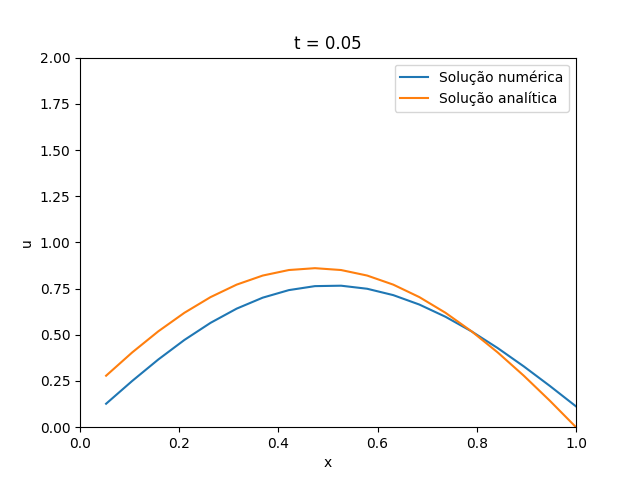
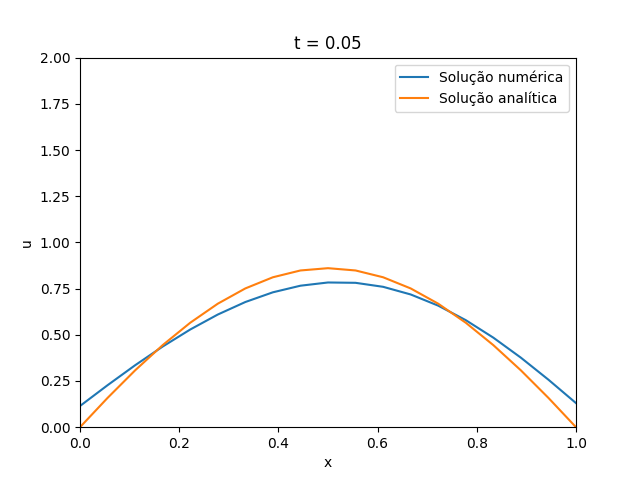
uebert

Changed region(s): [[0.125, 0.5312, 0.9062, 0.875]]

diff --git a/03/Metodos.py b/03/Metodos.py
@@ -21,7 +21,7 @@ class Metodos:
         self.pontos_t = int((t[1]-t[0])/k - 1)
 
         self.u_exp = self.explicito(x, t, h, k)
-        # self.u_crank = self.crank_nicolson()
+        self.u_crank = self.crank_nicolson(x, t, h, k)
 
         return
 
@@ -74,7 +74,11 @@ class Metodos:
 
         # A matriz da solução não contará com a borda do domínio
         m = int((x[1]-x[0])/h - 1)
-        m_linha = int((t[1]-t[0])/k - 1)
+
+        if (type(t) == list):
+            m_linha = int((t[1]-t[0])/k - 1)
+        else:
+            m_linha = int((t)/k - 1)
 
         T = np.zeros((m, m))
         for i in range(0, m - 1):
@@ -85,7 +89,6 @@ class Metodos:
         T[-1][-1] = 1 - 2*sigma
 
         U_0 = np.zeros((m, 1))
-
         for x in range(0, m):
             U_0[x][0] = np.sin(np.pi*x*self.h) + x*self.h*(1 - x*self.h)
 
@@ -94,7 +97,6 @@ class Metodos:
 
         # matriz coluna de 2
         m_2 = np.ones((m, 1))*2
-        self.imprime_matriz(m_2)
 
         for i in range(1, m_linha):
             aux = np.dot(T, U[i-1])
@@ -106,37 +108,38 @@ class Metodos:
 
         return U
 
-    def erro_explicito(self):
-        h = self.h
-        k = self.k
-        lim_t = self.lim_t
+    def calc_erro(self, x, t, h, k, U):
+        pontos_x = int((x[1]-x[0])/h - 1)
+        pontos_t = int((t[1]-t[0])/k - 1)
 
-        x = np.arange(h, 1, h)
-        t = np.arange(k, lim_t, k)
-        X, T = np.meshgrid(x, t)
+        x = np.arange(x[0], x[1], pontos_x)
+        t = np.arange(t[0], t[1], pontos_t)
 
-        erro = abs(self.u_analitica(X, T) - self.U_exp)
+        # X, T = np.meshgrid(x, t)
+        erro = abs(self.u_analitica(x, t) - U)
 
         return erro
 
-    def crank_nicolson(self):
-        h = self.h
-        k = self.k
-        lim_t = self.lim_t
-
+    def crank_nicolson(self, x, t, h, k):
         sigma = self.sigma
-
-        # A matriz da solução não contará com a borda do domínio
-        m = int(1/h - 1)
+        m = int((x[1]-x[0])/h - 1)
 
         # Condições para correção de erros ocorridos por problemas de arredondamento
         # de máquina para valores específicos de k utilizados na verificação da ordem de convergência
         if ((k == h) | (k == 0.5**2) | (k == 0.01**2)):
-            m_linha = int(lim_t/k - 2)
+            if (type(t) == list):
+                m_linha = int((t[1]-t[0])/k - 2)
+            else:
+                m_linha = int((t)/k - 2)
+
         else:
-            m_linha = int(lim_t/k - 1)
+            if (type(t) == list):
+                m_linha = int((t[1]-t[0])/k - 1)
+            else:
+                m_linha = int((t)/k - 1)
 
         T = np.zeros((m, m))
+
         for i in range(0, m - 1):
             T[i][i + 1] = -sigma/2
             T[i][i] = 1 + sigma
@@ -151,16 +154,13 @@ class Metodos:
         S[-1][-1] = 1 - sigma
 
         U_0 = np.zeros((m, 1))
-        for j in range(0, m):
-            if (j <= 1/(2*h)):
-                U_0[j][0] = 2*j*h
-            elif (j <= 1/h):
-                U_0[j][0] = 2 - 2*j*h
+        for x in range(0, m):
+            U_0[x][0] = np.sin(np.pi*x*self.h) + x*self.h*(1 - x*self.h)
 
         U = []
         U.append(U_0)
 
-        for i in range(1, m_linha + 1):
+        for i in range(1, m_linha):
             aux = np.dot(S, U[i - 1])
 
             aux2 = np.linalg.solve(T, aux)
@@ -170,18 +170,6 @@ class Metodos:
         U.shape = (U.shape[0], U.shape[1])
 
         return U
-
-    def erro_crank_nicolson(self):
-        h = self.h
-        lim_t = self.lim_t
-        k = self.k
-
-        x = np.arange(h, 1, h)
-        t = np.arange(k, lim_t, k)
-        X, T = np.meshgrid(x, t)
-        erro = abs(self.u_analitica(X, T) - self.U_crank)
-
-        return erro
 
     def plot_numerica(self, U, nome, titulo):
         x0 = self.dom_x[0]
@@ -213,18 +201,25 @@ class Metodos:
 
         plt.close()
 
-    def comparacao(self, x, t, h, k, nome):
-        x = np.linspace(self.dom_x[0], self.dom_x[1], self.pontos_x)
+    def comparacao(self, x, h, k, nome):
+        pontos_x = int((x[1]-x[0])/h - 1)
+        x_lin = np.linspace(x[0], x[1], pontos_x)
 
         t_values = [0.05, 0.1, 0.15, 0.2, 0.25, 0.3]
 
         for i in t_values:
-            u_ref = self.u_analitica(x, i)
-            U = self.explicito(x, i, h, k)
+            u_ref = self.u_analitica(x_lin, i)
+
+            if (nome == 'Crank-Nicolson'):
+                U = self.crank_nicolson(x, i, h, k)
+            elif (nome == 'explicito'):
+                U = self.explicito(x, i, h, k)
 
             fig, ax = plt.subplots()
-            ax.plot(x, U)
-            ax.plot(x, u_ref)
+            ultima_linha = U[-1, :]
+
+            ax.plot(x_lin, ultima_linha)
+            ax.plot(x_lin, u_ref)
 
             plt.title("t = %.2f" % i)
             plt.xlabel('x')
@@ -241,20 +236,28 @@ class Metodos:
 
             plt.close()
 
-    def erro_convergencia(self, nome):
+    def erro_convergencia(self, x, t, nome):
         # Calculando a norma (2-norm) do erro para múltiplos valores de h e k
         erro = []
         valores_h = np.array([0.5, 0.1, 0.05, 0.01])
-        k = self.k
-        valores_k = (5/11)*(valores_h)**2
-        for h in [0.5, 0.1, 0.05, 0.01]:
+
+        if (nome == 'Explicito'):
+            valores_k = (5/11)*(valores_h)**2
+        elif (nome == 'Crank-Nicolson'):
+            valores_k = (5/11)*(valores_h)
+
+        for i in range(len(valores_h)):
             if (nome == 'Explicito'):
-                aux = self.erro_explicito()
+                U = self.explicito(x, t, valores_h[i], valores_k[i])
+                aux = self.calc_erro(x, t, valores_h[i], valores_k[i], U)
+
             elif (nome == 'Crank-Nicolson'):
-                aux = self.erro_crank_nicolson()
+                U = self.crank_nicolson(x, t, valores_h[i], valores_k[i])
+                aux = self.calc_erro(x, t, valores_h[i], valores_k[i], U)
 
             # Multiplicando a matriz pelos tamanhos dos passos  antes de calcular sua norma
-            aux = h*k*aux
+            aux = valores_h[i]*valores_k[i]*aux
+
             erro.append(np.linalg.norm(aux))
 
         valores_h = valores_h.tolist()

diff --git a/03/main.py b/03/main.py
@@ -10,19 +10,18 @@ dom_x = [0, 1]
 # # Condições iniciais - CASO B
 # h = 0.05
 # k = (5/9)*(h**2)
-# lim_t = 2
-# lim_sum = 1000
+# dom_t = [0, 2]
+# dom_x = [0, 1]
 
 m = Metodos(h, k, dom_x, dom_t)
 
 m.plot_ref()
 
-m.plot_numerica(dom_x, 0, h, k 'explicito', 'Método Explícito')
+m.plot_numerica(m.u_exp, 'explicito', 'Método Explícito')
+m.comparacao(dom_x, h, k, 'explicito')
 
-# m.comparacao(m.u_exp, 'explicito')
+m.plot_numerica(m.u_crank, 'crank_nicolson', 'Crank-Nicolson')
+m.comparacao(dom_x, h, k, 'Crank-Nicolson')
 
-# m.plot_numerica(m.crank_nicolson, 'crank_nicolson', 'Solução Crank-Nicolson')
-# m.comparacao(m.u_crank, 'Crank-Nicolson')
-
-# m.erro_convergencia('Explicito')
-# m.erro_convergencia('Crank-Nicolson')
+m.erro_convergencia(dom_x, dom_t, 'Explicito')
+m.erro_convergencia(dom_x, dom_t, 'Crank-Nicolson')
